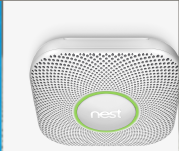
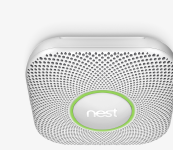
++

diff --git a/public/assets/css/app.css b/public/assets/css/app.css
@@ -5314,18 +5314,19 @@ header.colophon {
     position: fixed;
     top: 61px;
     z-index: 2; }
-  header.colophon .search-bar {
-    padding-top: 13px;
-    margin-left: 3%; }
-    header.colophon .search-bar .search-toggle {
-      display: none;
-      text-indent: -9999px;
-      background: url("/assets/images/magnif-grey.png") center no-repeat; }
-    header.colophon .search-bar input {
-      min-width: 128px;
-      color: #999;
-      text-align: center;
-      background: url("/assets/images/magnif-grey.png") 10% no-repeat; }
+
+.search-bar {
+  padding-top: 13px;
+  margin-left: 3%; }
+  .search-bar .search-toggle {
+    display: none;
+    text-indent: -9999px;
+    background: url("/assets/images/magnif-grey.png") center no-repeat; }
+  .search-bar input {
+    min-width: 128px;
+    color: #999;
+    text-align: center;
+    background: url("/assets/images/magnif-grey.png") 10% no-repeat; }
 
 #top-nav a {
   margin-right: 8%;
@@ -5950,27 +5951,43 @@ header.sub-head {
 
 .comparison {
   position: relative; }
+  .comparison .search-bar {
+    margin-top: 0;
+    padding-top: 0; }
+    .comparison .search-bar input {
+      padding-top: 20px;
+      padding-bottom: 20px;
+      border-radius: 10px;
+      background-position: 93% center;
+      color: #000; }
   .comparison .arrow {
+    width: 35px;
+    height: 35px;
     position: absolute;
-    top: 45%;
-    background-image: url("/assets/iamges/icons/arrow-right-purple.png");
-    background-repeat: no-repeat; }
+    top: 32%;
+    background-repeat: no-repeat;
+    border: 0; }
     .comparison .arrow.arrow-left {
-      left: 25%; }
+      left: 24%;
+      background: url("/assets/images/icons/arrow-left-purple.png") no-repeat;
+      background-size: contain; }
     .comparison .arrow.arrow-right {
-      background-image: url("/assets/iamges/icons/arrow-right-purple.png"); }
+      right: 3%;
+      background: url("/assets/images/icons/arrow-right-purple.png") no-repeat;
+      background-size: contain; }
 
 .comparison-tab {
   padding: 5px; }
   .comparison-tab > div {
-    min-height: 565px;
+    min-height: 575px;
     position: relative;
     border: 1px solid #e7e7e7;
     border-radius: 5px; }
     .comparison-tab > div .tab-wrap {
       padding: 15px; }
   .comparison-tab img {
-    width: 100%; }
+    width: 100%;
+    height: 237px; }
   .comparison-tab h4 {
     font-size: 1.6rem;
     font-weight: bold; }

diff --git a/resources/assets/sass/app.scss b/resources/assets/sass/app.scss
@@ -1549,27 +1549,24 @@ header.colophon{
     }
   }
 
+}
 
+.search-bar{
+  padding-top: 13px;
+  margin-left: 3%;
 
-
-  .search-bar{
-    padding-top: 13px;
-    margin-left: 3%;
-
-    .search-toggle{
-      display: none;
-      text-indent: -9999px;
-      background: url('/assets/images/magnif-grey.png') center no-repeat;
-    }
-
-    input{
-      min-width: 128px;
-      color: #999;
-      text-align: center;
-      background: url('/assets/images/magnif-grey.png') 10% no-repeat;
-    }
+  .search-toggle{
+    display: none;
+    text-indent: -9999px;
+    background: url('/assets/images/magnif-grey.png') center no-repeat;
   }
 
+  input{
+    min-width: 128px;
+    color: #999;
+    text-align: center;
+    background: url('/assets/images/magnif-grey.png') 10% no-repeat;
+  }
 }
 
 
@@ -2623,17 +2620,36 @@ header.sub-head{
 
 .comparison{
   position: relative;
+
+  .search-bar{
+    margin-top: 0;
+    padding-top: 0;
+
+    input{
+      padding-top: 20px;
+      padding-bottom: 20px;
+      border-radius: 10px;
+      background-position: 93% center;
+      color: #000;
+    }
+  }
   .arrow{
+    width: 35px;
+    height: 35px;
     position: absolute;
-    top: 45%;
-    background-image: url('/assets/iamges/icons/arrow-right-purple.png');
+    top: 32%;
     background-repeat: no-repeat;
+    border: 0;
 
     &.arrow-left{
-      left: 25%;
+      left: 24%;
+      background: url('/assets/images/icons/arrow-left-purple.png') no-repeat;
+      background-size: contain;
     }
     &.arrow-right{
-      background-image: url('/assets/iamges/icons/arrow-right-purple.png');
+      right: 3%;
+      background: url('/assets/images/icons/arrow-right-purple.png') no-repeat;
+      background-size: contain;
     }
   }
 }
@@ -2643,7 +2659,7 @@ header.sub-head{
 
 
   & > div{
-    min-height: 565px;
+    min-height: 575px;
     position: relative;
     border: 1px solid lighten($light-grey, 15%);
     border-radius: 5px;
@@ -2655,6 +2671,7 @@ header.sub-head{
 
   img{
     width: 100%;
+    height: 237px;
   }
   h4{
     font-size: 1.6rem;

diff --git a/resources/views/static/product-details.blade.php b/resources/views/static/product-details.blade.php
@@ -123,7 +123,7 @@
 
                         <div class="col-lg-3 comparison-tab">
                             <section class="search-bar">
-                                <input class="form-control  hidden-620" type="text" name="search" value="Search..."/>
+                                <input class="form-control  hidden-620" type="text" name="search" value="Search to add products"/>
                             </section>
                         </div>
 
@@ -147,7 +147,7 @@
                         </div>
                         <div class="col-lg-3 comparison-tab">
                             <div>
-                                <img class="img-responsive" src="/assets/images/dummies/nest-2.png"/>
+                                <img class="img-responsive" src="/assets/images/dummies/nest-3.png"/>
                                 <div class="tab-wrap">
                                     <h4>Next Project <br>(second generation)</h4>
                                     <i>Announced 29 October 2015</i>
